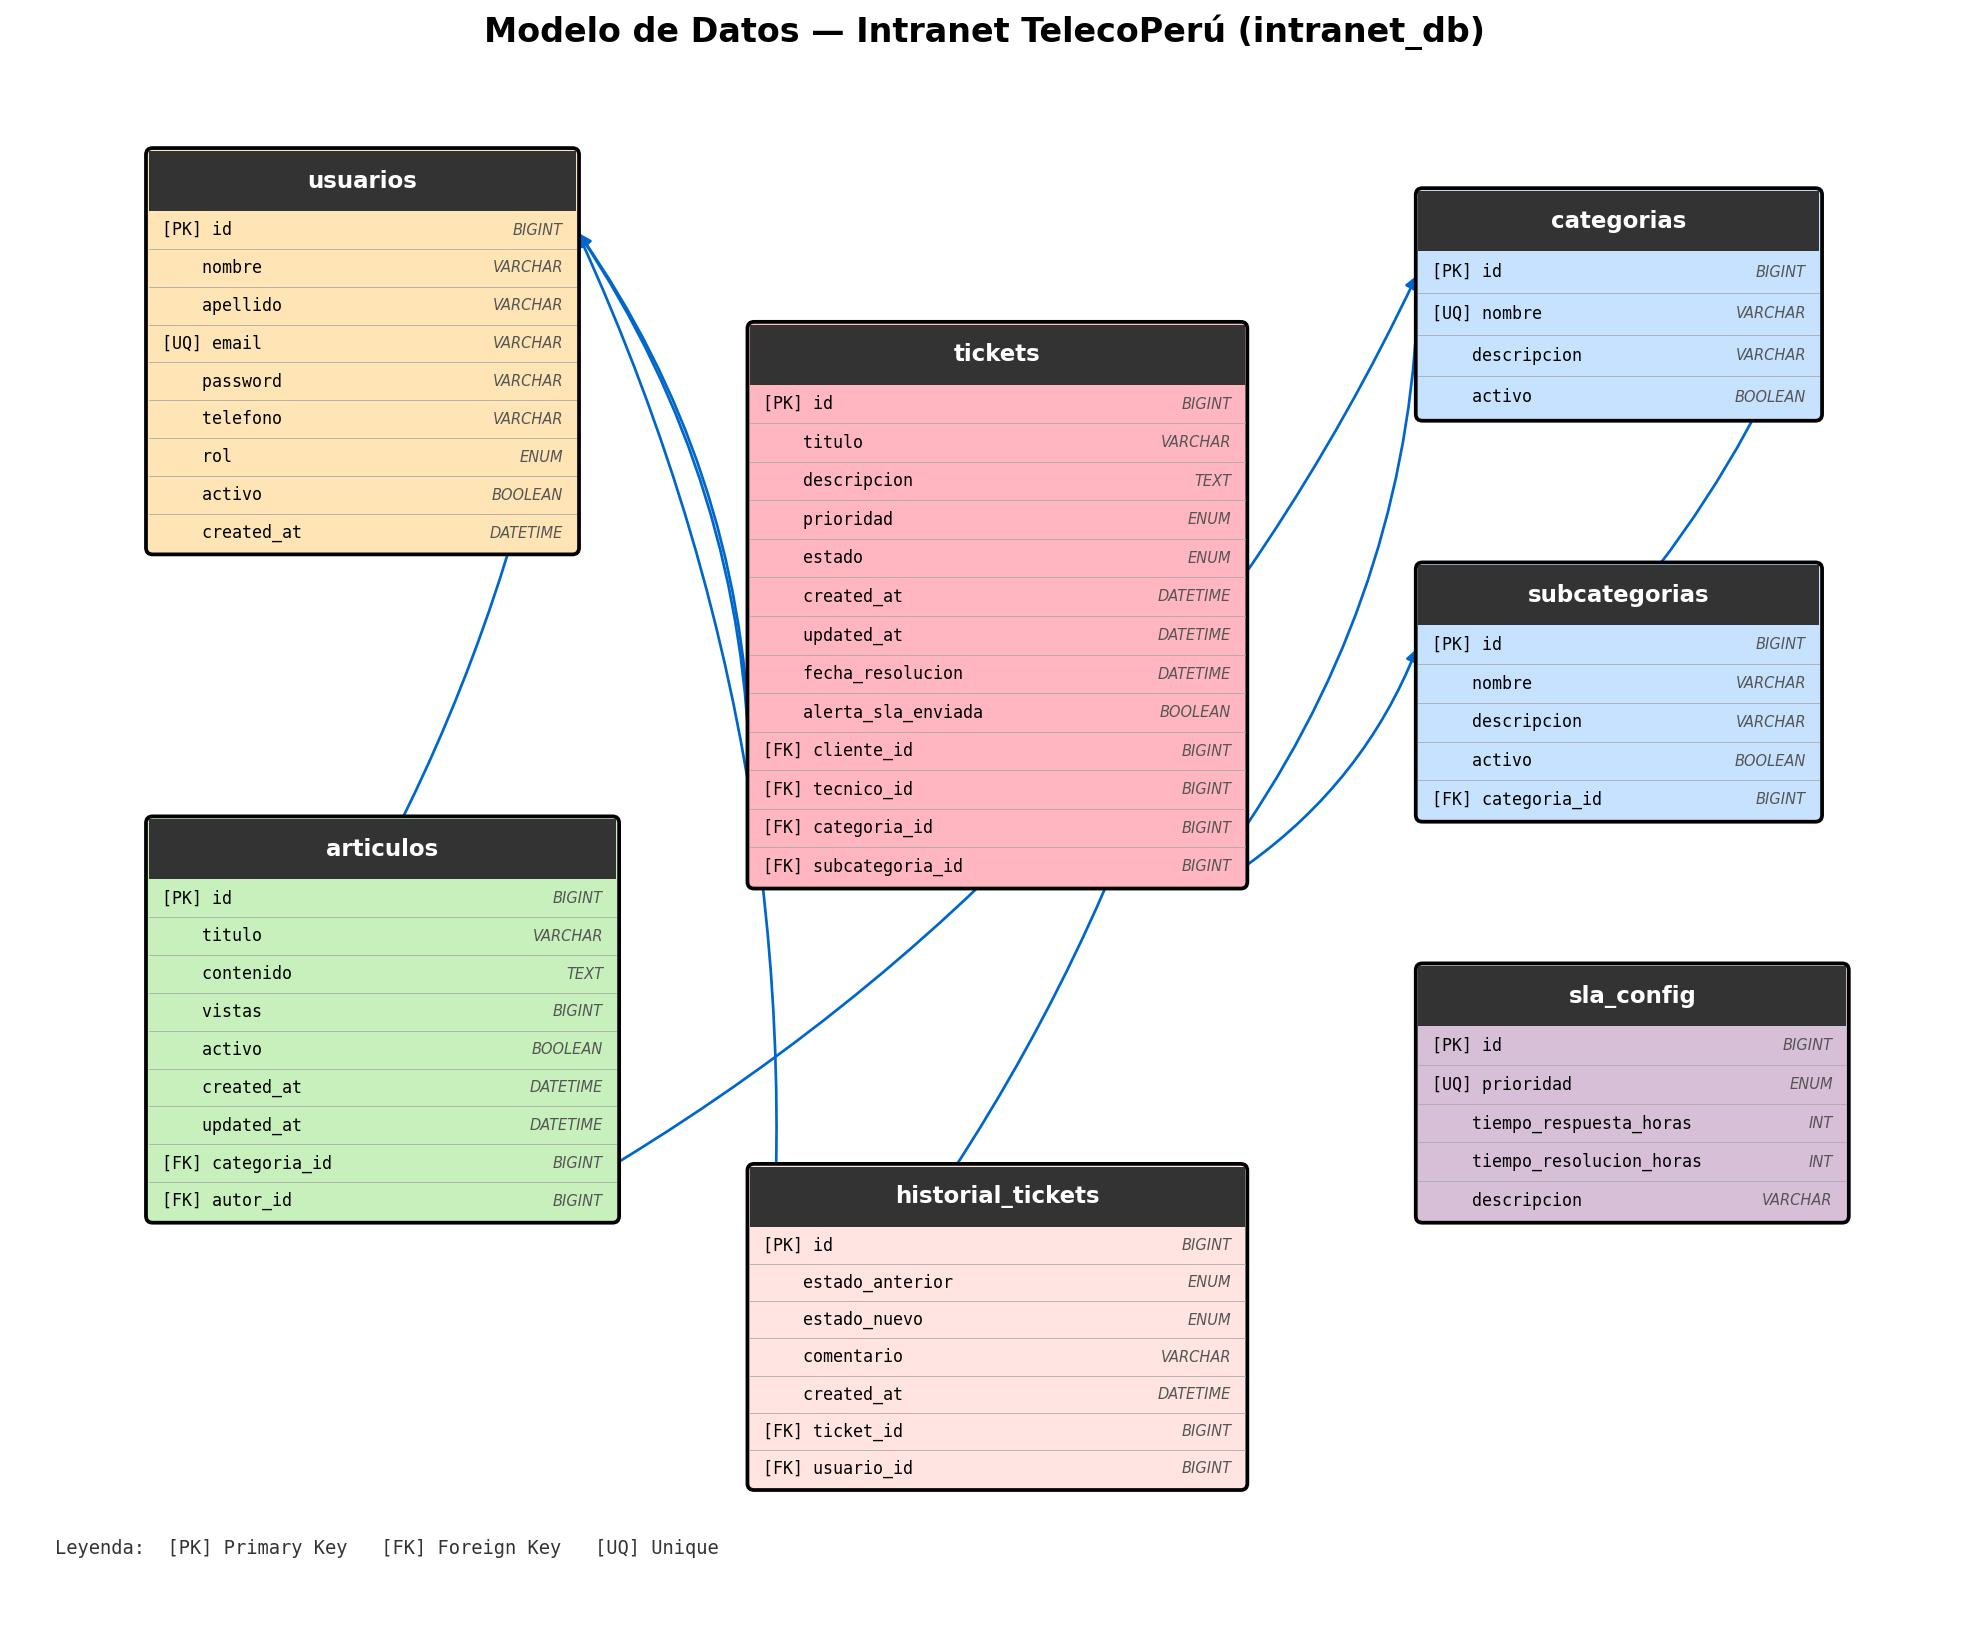
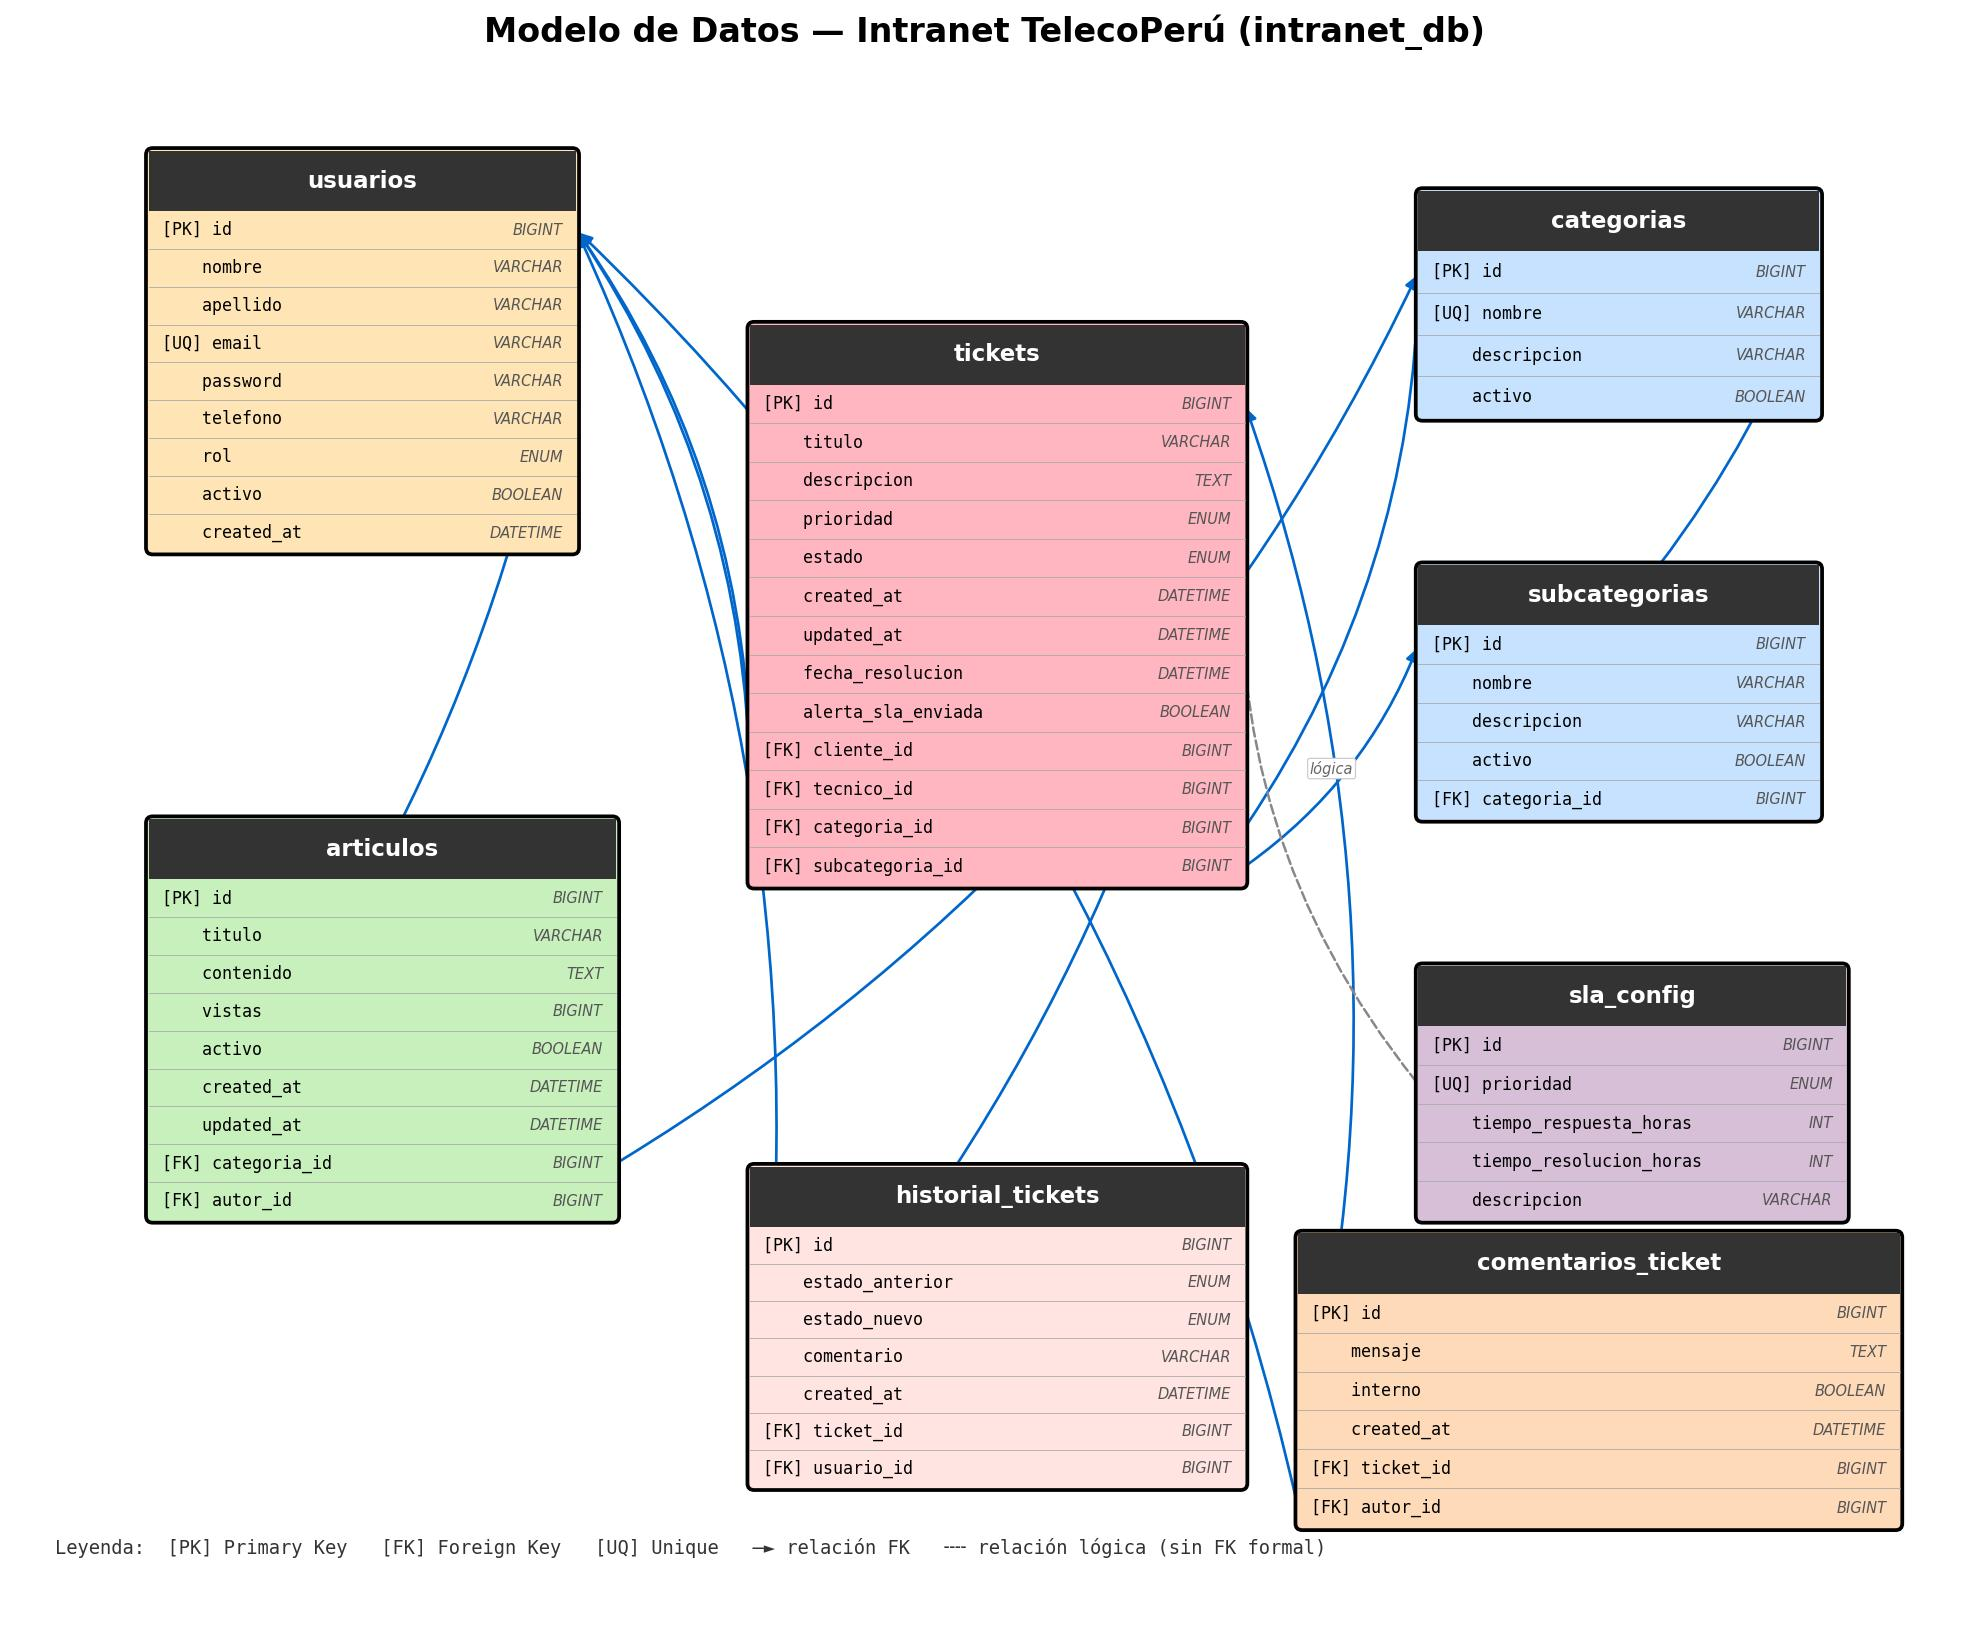
feat: ultimos cambios

Changed region(s): [[0.6509, 0.7482, 0.9919, 0.9664], [0.6819, 0.5923, 0.7129, 0.6546], [0.6509, 0.4676, 0.6819, 0.4988]]

diff --git a/src/main/java/com/grupo6/intranet/services/ComentarioTicketService.java b/src/main/java/com/grupo6/intranet/services/ComentarioTicketService.java
@@ -1,0 +1,73 @@
+package com.grupo6.intranet.services;
+
+import com.grupo6.intranet.dtos.ComentarioRequest;
+import com.grupo6.intranet.models.ComentarioTicket;
+import com.grupo6.intranet.models.Rol;
+import com.grupo6.intranet.models.Ticket;
+import com.grupo6.intranet.models.Usuario;
+import com.grupo6.intranet.repositories.ComentarioTicketRepository;
+import com.grupo6.intranet.repositories.TicketRepository;
+import com.grupo6.intranet.repositories.UsuarioRepository;
+import org.springframework.beans.factory.annotation.Autowired;
+import org.springframework.stereotype.Service;
+import org.springframework.transaction.annotation.Transactional;
+import java.util.List;
+import java.util.Optional;
+
+@Service
+@Transactional(readOnly = true)
+public class ComentarioTicketService {
+
+    @Autowired
+    private ComentarioTicketRepository comentarioRepository;
+
+    @Autowired
+    private TicketRepository ticketRepository;
+
+    @Autowired
+    private UsuarioRepository usuarioRepository;
+
+    @Transactional
+    public ComentarioTicket crear(Long ticketId, Long autorId, ComentarioRequest req) {
+        Ticket ticket = ticketRepository.findById(ticketId)
+                .orElseThrow(() -> new RuntimeException("Ticket no encontrado"));
+        Usuario autor = usuarioRepository.findById(autorId)
+                .orElseThrow(() -> new RuntimeException("Usuario no encontrado"));
+
+        boolean esInterno = Boolean.TRUE.equals(req.getInterno());
+        if (esInterno && autor.getRol() == Rol.CLIENTE) {
+            throw new RuntimeException("Un cliente no puede crear comentarios internos");
+        }
+
+        ComentarioTicket c = new ComentarioTicket();
+        c.setTicket(ticket);
+        c.setAutor(autor);
+        c.setMensaje(req.getMensaje());
+        c.setInterno(esInterno);
+        return comentarioRepository.save(c);
+    }
+
+    public List<ComentarioTicket> listarPorTicket(Long ticketId, boolean incluirInternos) {
+        if (incluirInternos) {
+            return comentarioRepository.findByTicketIdOrderByCreatedAtAsc(ticketId);
+        }
+        return comentarioRepository.findByTicketIdAndInternoFalseOrderByCreatedAtAsc(ticketId);
+    }
+
+    public Optional<ComentarioTicket> buscarPorId(Long id) {
+        return comentarioRepository.findById(id);
+    }
+
+    public long contarPorTicket(Long ticketId) {
+        return comentarioRepository.countByTicketId(ticketId);
+    }
+
+    @Transactional
+    public boolean eliminar(Long id) {
+        if (comentarioRepository.existsById(id)) {
+            comentarioRepository.deleteById(id);
+            return true;
+        }
+        return false;
+    }
+}

diff --git a/src/main/java/com/grupo6/intranet/config/ComentariosInitializer.java b/src/main/java/com/grupo6/intranet/config/ComentariosInitializer.java
@@ -1,0 +1,69 @@
+package com.grupo6.intranet.config;
+
+import com.grupo6.intranet.models.ComentarioTicket;
+import com.grupo6.intranet.models.Ticket;
+import com.grupo6.intranet.models.Usuario;
+import com.grupo6.intranet.repositories.ComentarioTicketRepository;
+import com.grupo6.intranet.repositories.TicketRepository;
+import com.grupo6.intranet.repositories.UsuarioRepository;
+import org.springframework.beans.factory.annotation.Autowired;
+import org.springframework.boot.CommandLineRunner;
+import org.springframework.core.annotation.Order;
+import org.springframework.stereotype.Component;
+
+@Component
+@Order(2)
+public class ComentariosInitializer implements CommandLineRunner {
+
+    @Autowired private ComentarioTicketRepository comentarioRepo;
+    @Autowired private TicketRepository ticketRepo;
+    @Autowired private UsuarioRepository usuarioRepo;
+
+    @Override
+    public void run(String... args) {
+        if (comentarioRepo.count() > 0) return;
+        if (ticketRepo.count() == 0 || usuarioRepo.count() == 0) return;
+
+        Usuario admin1 = usuarioRepo.findByEmail("[email redacted]").orElse(null);
+        Usuario tec1   = usuarioRepo.findByEmail("[email redacted]").orElse(null);
+        Usuario tec2   = usuarioRepo.findByEmail("[email redacted]").orElse(null);
+        Usuario cli1   = usuarioRepo.findByEmail("[email redacted]").orElse(null);
+        Usuario cli2   = usuarioRepo.findByEmail("[email redacted]").orElse(null);
+        Usuario cli3   = usuarioRepo.findByEmail("[email redacted]").orElse(null);
+
+        if (admin1 == null || tec1 == null || tec2 == null) return;
+
+        Ticket t1 = ticketRepo.findById(1L).orElse(null);
+        Ticket t3 = ticketRepo.findById(3L).orElse(null);
+        Ticket t5 = ticketRepo.findById(5L).orElse(null);
+        Ticket t6 = ticketRepo.findById(6L).orElse(null);
+
+        if (t1 != null && cli1 != null) {
+            comentario(t1, cli1, "Sigue muy lento, ya intenté reiniciar el router pero no mejora.", false);
+            comentario(t1, tec1, "Confirmado, ya estoy revisando el switch del piso 3. Te aviso en cuanto identifique.", false);
+            comentario(t1, tec1, "Cliente VIP — priorizar este caso sobre los demás de la cola.", true);
+        }
+        if (t3 != null && cli1 != null) {
+            comentario(t3, cli1, "El error aparece justo al abrir la sección de facturas emitidas.", false);
+            comentario(t3, tec2, "Replicado en mi equipo, parece ser un problema de caché. Probando solución del KB.", false);
+            comentario(t3, tec2, "Bug confirmado en FacturaSoft 4.2 — escalar al proveedor si no resuelve con caché.", true);
+        }
+        if (t5 != null && cli2 != null) {
+            comentario(t5, tec2, "Equipo escaneado completo, troyano eliminado y actualizado el antivirus.", false);
+            comentario(t5, cli2, "Muchas gracias, todo funcionando bien ahora.", false);
+        }
+        if (t6 != null && cli3 != null) {
+            comentario(t6, tec1, "Permisos restaurados desde el panel de administración del módulo RRHH.", false);
+            comentario(t6, cli3, "Confirmo que ya puedo ingresar. Pueden cerrar el ticket.", false);
+        }
+    }
+
+    private void comentario(Ticket ticket, Usuario autor, String mensaje, boolean interno) {
+        ComentarioTicket c = new ComentarioTicket();
+        c.setTicket(ticket);
+        c.setAutor(autor);
+        c.setMensaje(mensaje);
+        c.setInterno(interno);
+        comentarioRepo.save(c);
+    }
+}

diff --git a/docs/generar_diagrama_bd.py b/docs/generar_diagrama_bd.py
@@ -108,6 +108,19 @@ TABLAS = {
             ("autor_id", "BIGINT", "FK"),
         ],
     },
+    "comentarios_ticket": {
+        "pos": (9.6, 0.2),
+        "size": (4.5, 2.2),
+        "color": "#FFDAB9",
+        "cols": [
+            ("id", "BIGINT", "PK"),
+            ("mensaje", "TEXT", ""),
+            ("interno", "BOOLEAN", ""),
+            ("created_at", "DATETIME", ""),
+            ("ticket_id", "BIGINT", "FK"),
+            ("autor_id", "BIGINT", "FK"),
+        ],
+    },
 }
 
 RELACIONES = [
@@ -120,6 +133,13 @@ RELACIONES = [
     ("historial_tickets", "usuario_id", "usuarios"),
     ("articulos", "categoria_id", "categorias"),
     ("articulos", "autor_id", "usuarios"),
+    ("comentarios_ticket", "ticket_id", "tickets"),
+    ("comentarios_ticket", "autor_id", "usuarios"),
+]
+
+# Relaciones lógicas (no FK formal, pero los datos se cruzan por columna)
+RELACIONES_LOGICAS = [
+    ("sla_config", "prioridad", "tickets", "prioridad"),
 ]
 
 
@@ -193,6 +213,40 @@ def dibujar_relacion(ax, origen, col_fk, destino):
     ax.add_patch(arrow)
 
 
+def dibujar_relacion_logica(ax, origen, col_origen, destino, col_destino):
+    info_o = TABLAS[origen]
+    info_d = TABLAS[destino]
+    ox_l, ox_r, oy = centro_columna(info_o, col_origen)
+    dx_l, dx_r, dy = centro_columna(info_d, col_destino)
+
+    centro_o = (info_o["pos"][0] + info_o["size"][0] / 2,
+                info_o["pos"][1] + info_o["size"][1] / 2)
+    centro_d = (info_d["pos"][0] + info_d["size"][0] / 2,
+                info_d["pos"][1] + info_d["size"][1] / 2)
+
+    if centro_d[0] > centro_o[0]:
+        x_o = ox_r
+        x_d = dx_l
+    else:
+        x_o = ox_l
+        x_d = dx_r
+
+    arrow = FancyArrowPatch(
+        (x_o, oy), (x_d, dy),
+        connectionstyle="arc3,rad=-0.20",
+        arrowstyle="-", mutation_scale=10,
+        linewidth=1.2, color="#888888", linestyle="dashed", zorder=1)
+    ax.add_patch(arrow)
+
+    mid_x = (x_o + x_d) / 2
+    mid_y = (oy + dy) / 2 + 0.25
+    ax.text(mid_x, mid_y, "lógica",
+            ha="center", va="center", fontsize=7,
+            color="#666666", style="italic",
+            bbox=dict(boxstyle="round,pad=0.15", facecolor="white",
+                      edgecolor="#cccccc", linewidth=0.6), zorder=2)
+
+
 def main():
     fig, ax = plt.subplots(figsize=(16, 11))
     ax.set_xlim(0, 14.5)
@@ -209,10 +263,14 @@ def main():
     for origen, col_fk, destino in RELACIONES:
         dibujar_relacion(ax, origen, col_fk, destino)
 
+    for origen, col_o, destino, col_d in RELACIONES_LOGICAS:
+        dibujar_relacion_logica(ax, origen, col_o, destino, col_d)
+
     leyenda_x = 0.3
     leyenda_y = 0.0
     ax.text(leyenda_x, leyenda_y,
-            "Leyenda:  [PK] Primary Key   [FK] Foreign Key   [UQ] Unique",
+            "Leyenda:  [PK] Primary Key   [FK] Foreign Key   [UQ] Unique   "
+            "—► relación FK   ╌╌ relación lógica (sin FK formal)",
             fontsize=9, fontfamily="monospace", color="#333")
 
     plt.tight_layout()

diff --git a/src/main/java/com/grupo6/intranet/controllers/ComentarioTicketController.java b/src/main/java/com/grupo6/intranet/controllers/ComentarioTicketController.java
@@ -1,0 +1,54 @@
+package com.grupo6.intranet.controllers;
+
+import com.grupo6.intranet.dtos.ComentarioRequest;
+import com.grupo6.intranet.models.ComentarioTicket;
+import com.grupo6.intranet.services.ComentarioTicketService;
+import jakarta.validation.Valid;
+import org.springframework.beans.factory.annotation.Autowired;
+import org.springframework.http.ResponseEntity;
+import org.springframework.web.bind.annotation.*;
+import java.util.List;
+import java.util.Map;
+
+@RestController
+@RequestMapping("/api/comentarios")
+@CrossOrigin(origins = "*")
+public class ComentarioTicketController {
+
+    @Autowired
+    private ComentarioTicketService comentarioService;
+
+    @GetMapping("/ticket/{ticketId}")
+    public List<ComentarioTicket> listarPorTicket(
+            @PathVariable Long ticketId,
+            @RequestParam(name = "incluirInternos", defaultValue = "false") boolean incluirInternos) {
+        return comentarioService.listarPorTicket(ticketId, incluirInternos);
+    }
+
+    @GetMapping("/ticket/{ticketId}/conteo")
+    public Map<String, Long> contarPorTicket(@PathVariable Long ticketId) {
+        return Map.of("total", comentarioService.contarPorTicket(ticketId));
+    }
+
+    @GetMapping("/{id}")
+    public ResponseEntity<ComentarioTicket> buscarPorId(@PathVariable Long id) {
+        return comentarioService.buscarPorId(id)
+                .map(ResponseEntity::ok)
+                .orElse(ResponseEntity.notFound().build());
+    }
+
+    @PostMapping("/ticket/{ticketId}/usuario/{autorId}")
+    public ResponseEntity<ComentarioTicket> crear(
+            @PathVariable Long ticketId,
+            @PathVariable Long autorId,
+            @Valid @RequestBody ComentarioRequest req) {
+        return ResponseEntity.ok(comentarioService.crear(ticketId, autorId, req));
+    }
+
+    @DeleteMapping("/{id}")
+    public ResponseEntity<Void> eliminar(@PathVariable Long id) {
+        return comentarioService.eliminar(id)
+                ? ResponseEntity.noContent().build()
+                : ResponseEntity.notFound().build();
+    }
+}

diff --git a/src/main/java/com/grupo6/intranet/models/ComentarioTicket.java b/src/main/java/com/grupo6/intranet/models/ComentarioTicket.java
@@ -1,0 +1,37 @@
+package com.grupo6.intranet.models;
+
+import jakarta.persistence.*;
+import lombok.Data;
+import java.time.LocalDateTime;
+
+@Data
+@Entity
+@Table(name = "comentarios_ticket")
+public class ComentarioTicket {
+
+    @Id
+    @GeneratedValue(strategy = GenerationType.IDENTITY)
+    private Long id;
+
+    @ManyToOne
+    @JoinColumn(name = "ticket_id", nullable = false)
+    private Ticket ticket;
+
+    @ManyToOne
+    @JoinColumn(name = "autor_id", nullable = false)
+    private Usuario autor;
+
+    @Column(nullable = false, columnDefinition = "TEXT")
+    private String mensaje;
+
+    @Column(nullable = false)
+    private Boolean interno = false;
+
+    @Column(name = "created_at")
+    private LocalDateTime createdAt;
+
+    @PrePersist
+    protected void onCreate() {
+        createdAt = LocalDateTime.now();
+    }
+}

diff --git a/src/main/java/com/grupo6/intranet/config/SwaggerConfig.java b/src/main/java/com/grupo6/intranet/config/SwaggerConfig.java
@@ -3,15 +3,19 @@ package com.grupo6.intranet.config;
 import io.swagger.v3.oas.annotations.OpenAPIDefinition;
 import io.swagger.v3.oas.annotations.enums.SecuritySchemeType;
 import io.swagger.v3.oas.annotations.info.Info;
+import io.swagger.v3.oas.annotations.security.SecurityRequirement;
 import io.swagger.v3.oas.annotations.security.SecurityScheme;
 import org.springframework.context.annotation.Configuration;
 
 @Configuration
-@OpenAPIDefinition(info = @Info(
-        title = "Intranet TelecoPerú API",
-        version = "1.0",
-        description = "API REST para gestión de incidencias, base de conocimiento, dashboard y exportación"
-))
+@OpenAPIDefinition(
+        info = @Info(
+                title = "Intranet TelecoPerú API",
+                version = "1.0",
+                description = "API REST para gestión de incidencias, base de conocimiento, dashboard y exportación"
+        ),
+        security = { @SecurityRequirement(name = "bearerAuth") }
+)
 @SecurityScheme(
         name = "bearerAuth",
         type = SecuritySchemeType.HTTP,

diff --git a/src/main/java/com/grupo6/intranet/dtos/ComentarioRequest.java b/src/main/java/com/grupo6/intranet/dtos/ComentarioRequest.java
@@ -1,0 +1,13 @@
+package com.grupo6.intranet.dtos;
+
+import jakarta.validation.constraints.NotEmpty;
+import lombok.Data;
+
+@Data
+public class ComentarioRequest {
+
+    @NotEmpty(message = "El mensaje es obligatorio")
+    private String mensaje;
+
+    private Boolean interno = false;
+}

diff --git a/src/main/java/com/grupo6/intranet/repositories/ComentarioTicketRepository.java b/src/main/java/com/grupo6/intranet/repositories/ComentarioTicketRepository.java
@@ -1,0 +1,11 @@
+package com.grupo6.intranet.repositories;
+
+import com.grupo6.intranet.models.ComentarioTicket;
+import org.springframework.data.jpa.repository.JpaRepository;
+import java.util.List;
+
+public interface ComentarioTicketRepository extends JpaRepository<ComentarioTicket, Long> {
+    List<ComentarioTicket> findByTicketIdOrderByCreatedAtAsc(Long ticketId);
+    List<ComentarioTicket> findByTicketIdAndInternoFalseOrderByCreatedAtAsc(Long ticketId);
+    long countByTicketId(Long ticketId);
+}

diff --git a/src/main/java/com/grupo6/intranet/config/SecurityConfig.java b/src/main/java/com/grupo6/intranet/config/SecurityConfig.java
@@ -48,6 +48,10 @@ public class SecurityConfig {
                         .requestMatchers(HttpMethod.PATCH, "/api/tickets/**").hasAnyRole("ADMIN", "TECNICO")
                         .requestMatchers("/api/tickets/**").hasAnyRole("ADMIN", "TECNICO", "CLIENTE")
 
+                        // ── Comentarios Ticket ────────────────────────────
+                        .requestMatchers(HttpMethod.DELETE, "/api/comentarios/**").hasRole("ADMIN")
+                        .requestMatchers("/api/comentarios/**").hasAnyRole("ADMIN", "TECNICO", "CLIENTE")
+
                         // ── Artículos KB ──────────────────────────────────
                         .requestMatchers(HttpMethod.GET, "/api/articulos/**").authenticated()
                         .requestMatchers("/api/articulos/**").hasAnyRole("ADMIN", "TECNICO")